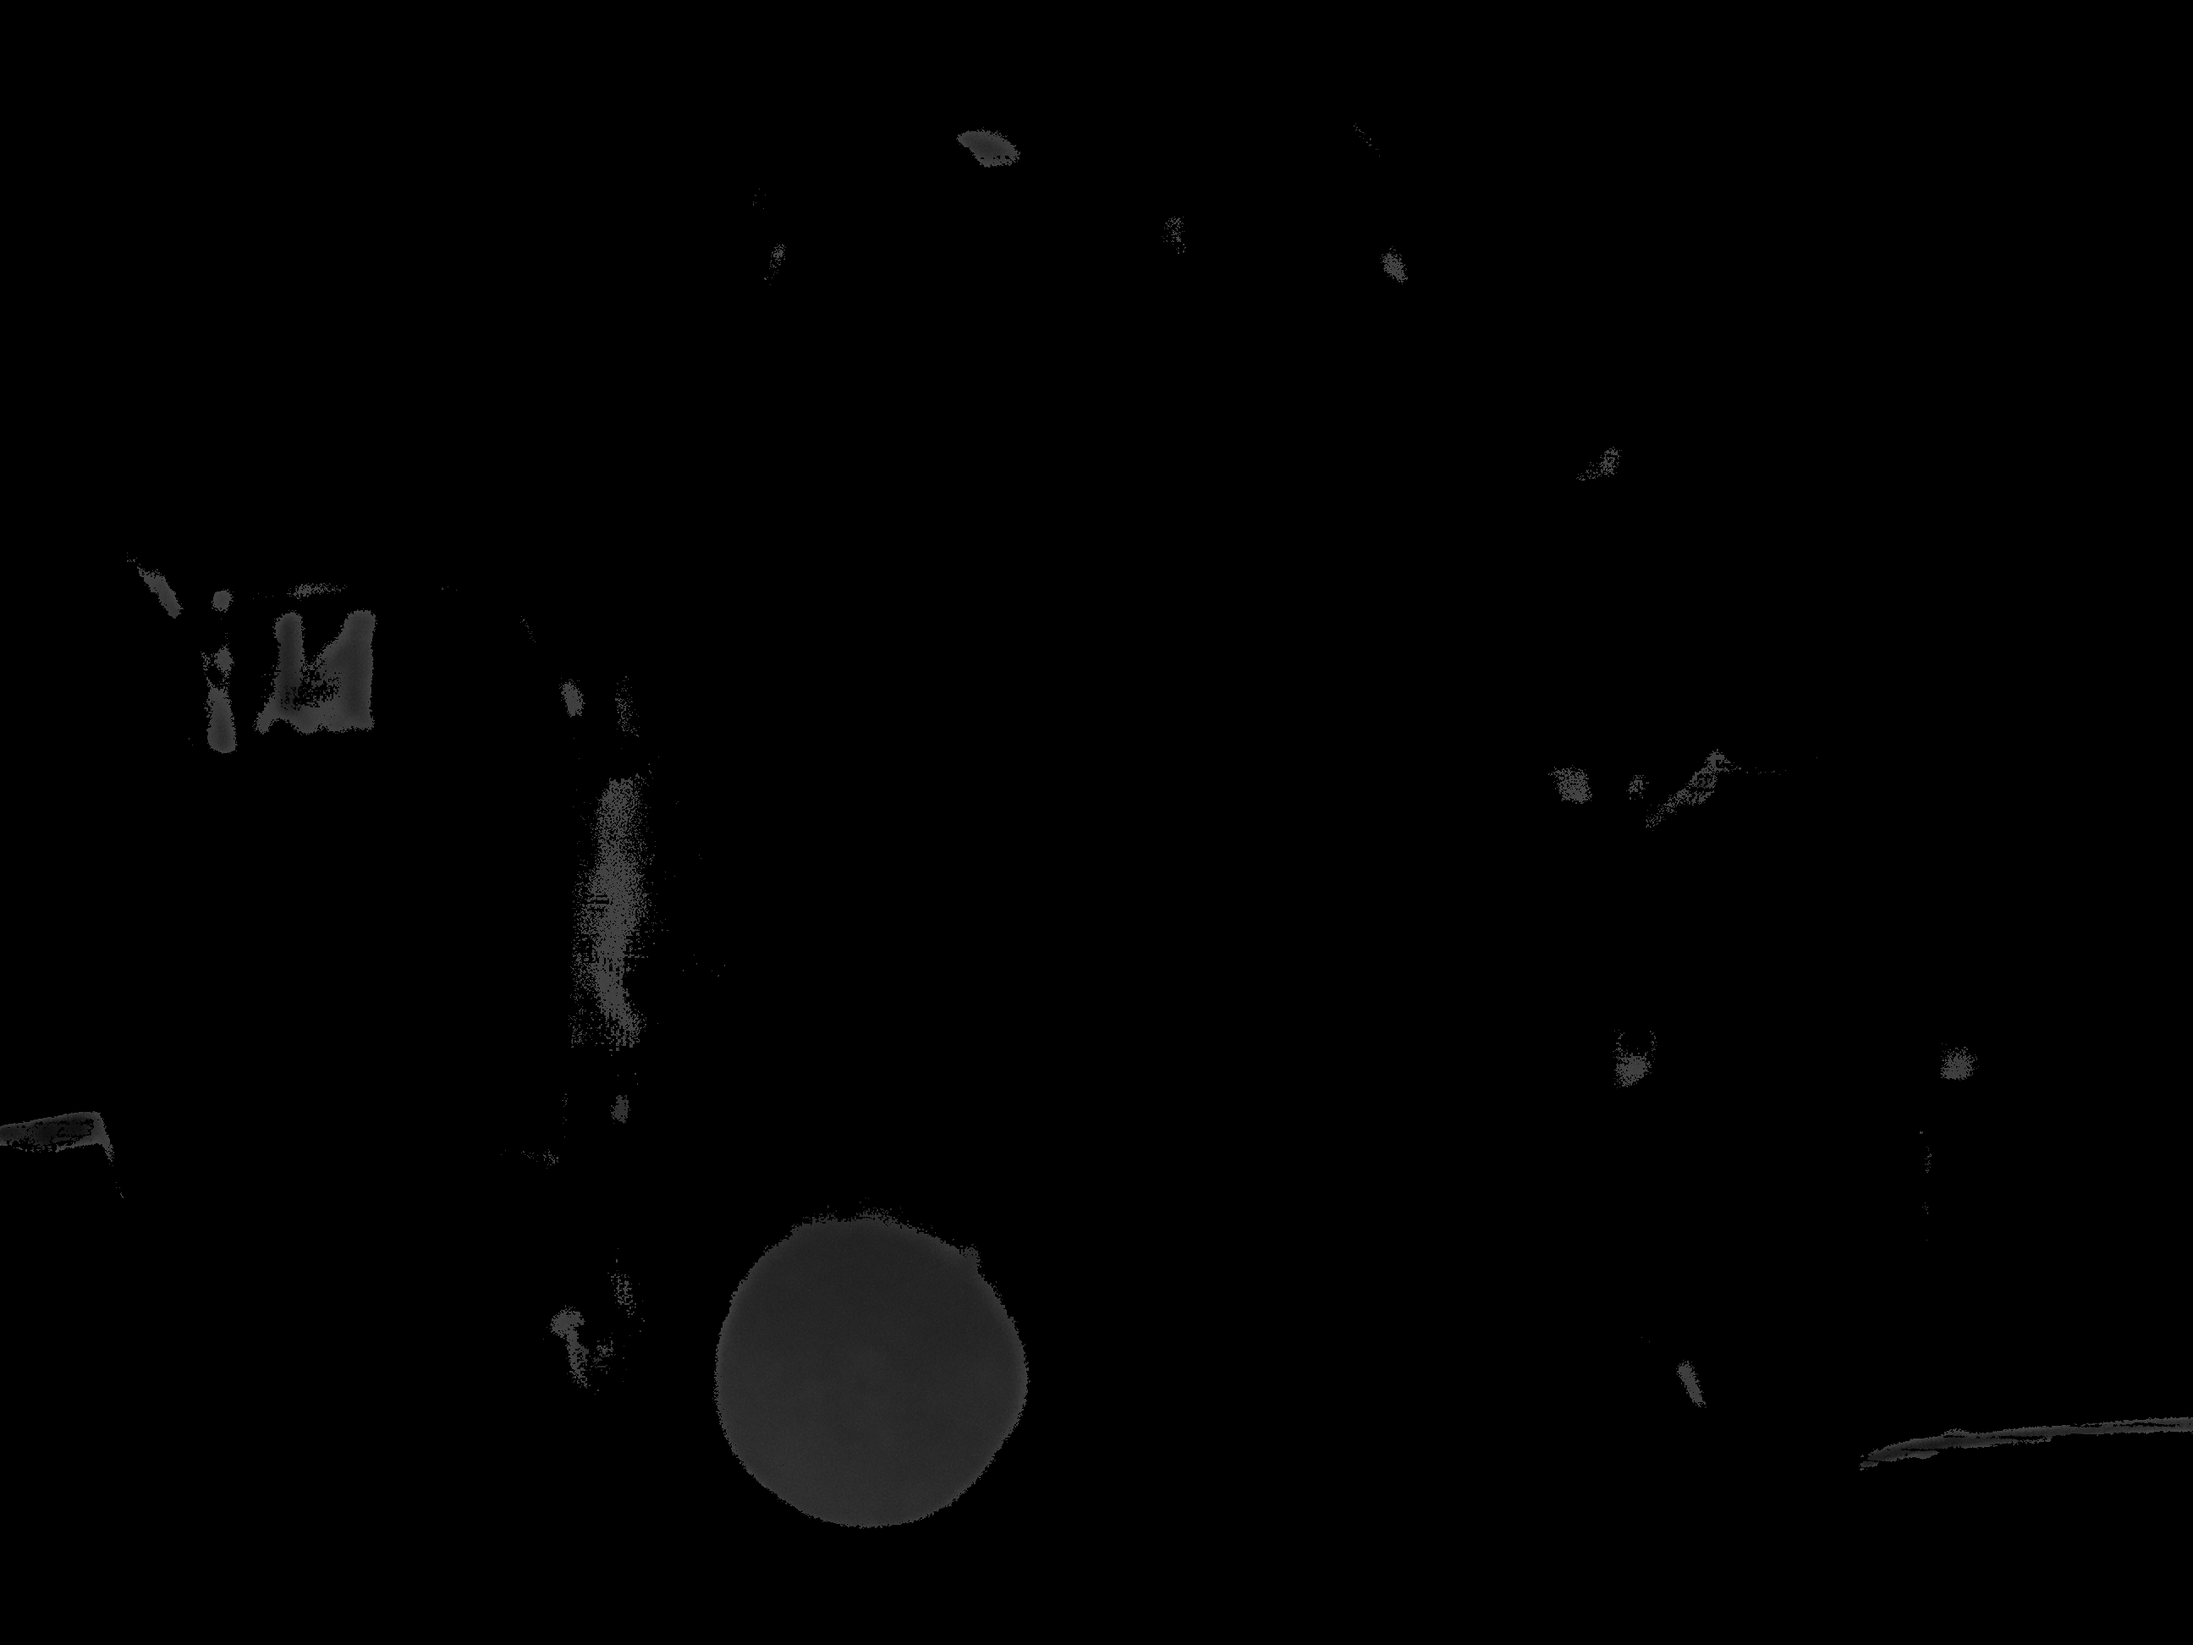
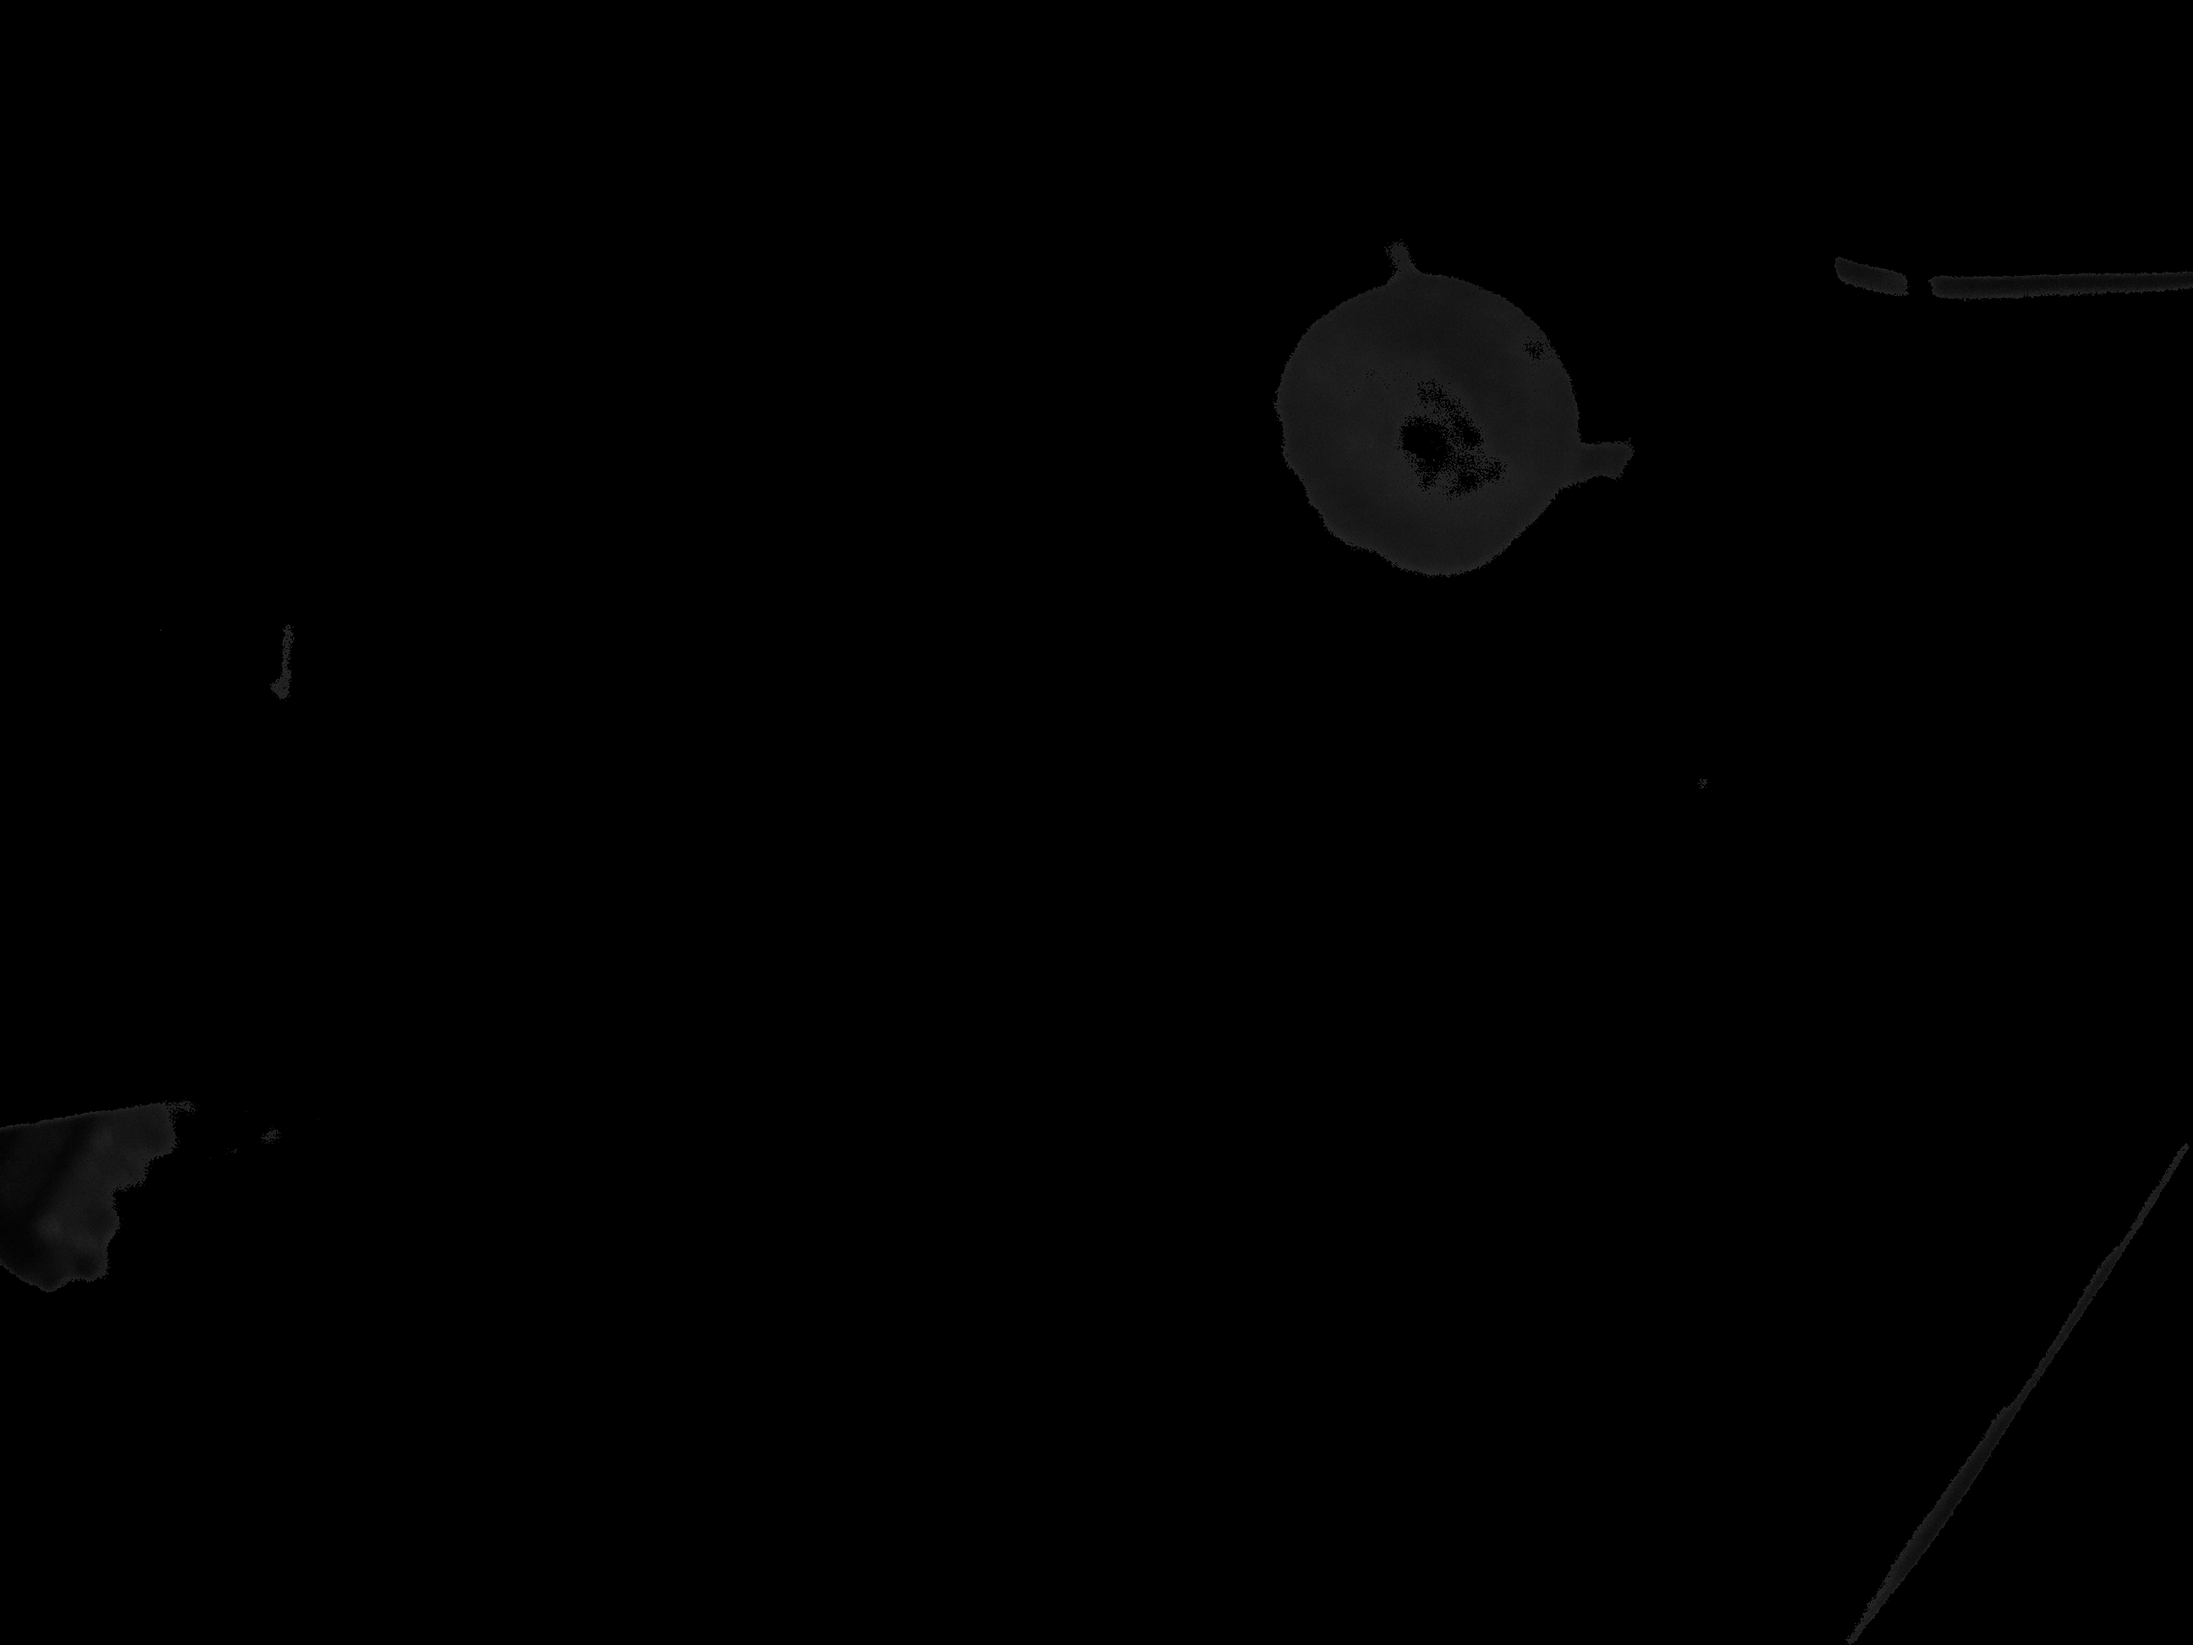
training data done

diff --git a/gt_capture/gt_capture.py b/gt_capture/gt_capture.py
@@ -18,8 +18,8 @@ def get_image(shh, remote_path="/home/pi/image.jpg", local_path="image.jpg"):
 
 def get_xy(image):
     # Set minimum and max HSV values to display (measured manually)
-    lower = np.array([0, 40, 0])
-    upper = np.array([179, 255, 78])
+    lower = np.array([0, 0, 0])
+    upper = np.array([179, 255, 40])
 
     # Create HSV Image and threshold into a range.
     hsv = cv2.cvtColor(image, cv2.COLOR_BGR2HSV)
@@ -30,7 +30,7 @@ def get_xy(image):
     gray_image = cv2.cvtColor(img_output, cv2.COLOR_BGR2GRAY)
     blurred = cv2.GaussianBlur(gray_image, (5, 5), 0)
 
-    (thresh, im_bw) = cv2.threshold(blurred, 30, 255,  cv2.THRESH_BINARY)
+    (thresh, im_bw) = cv2.threshold(blurred, 10, 255,  cv2.THRESH_BINARY)
     cv2.imwrite('gray_image.png', gray_image)
     cv2.imwrite('bw_image.png', im_bw)
     cnts = cv2.findContours(im_bw.copy(), cv2.RETR_EXTERNAL,
